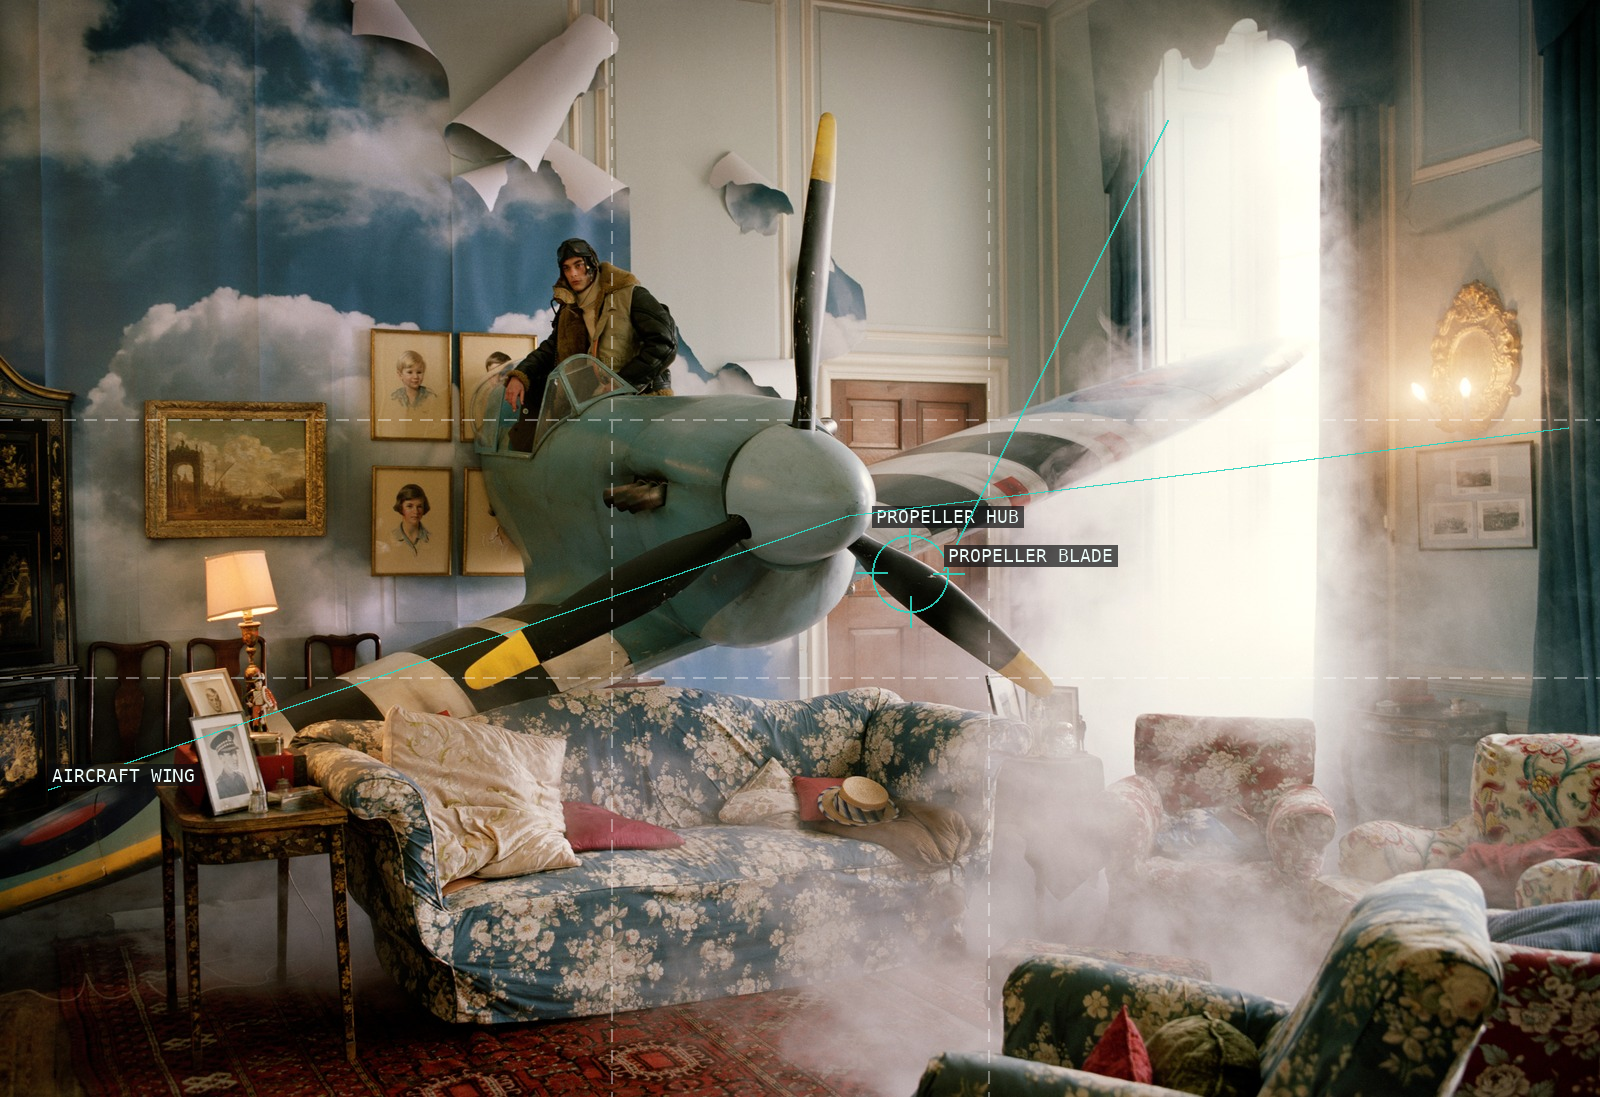
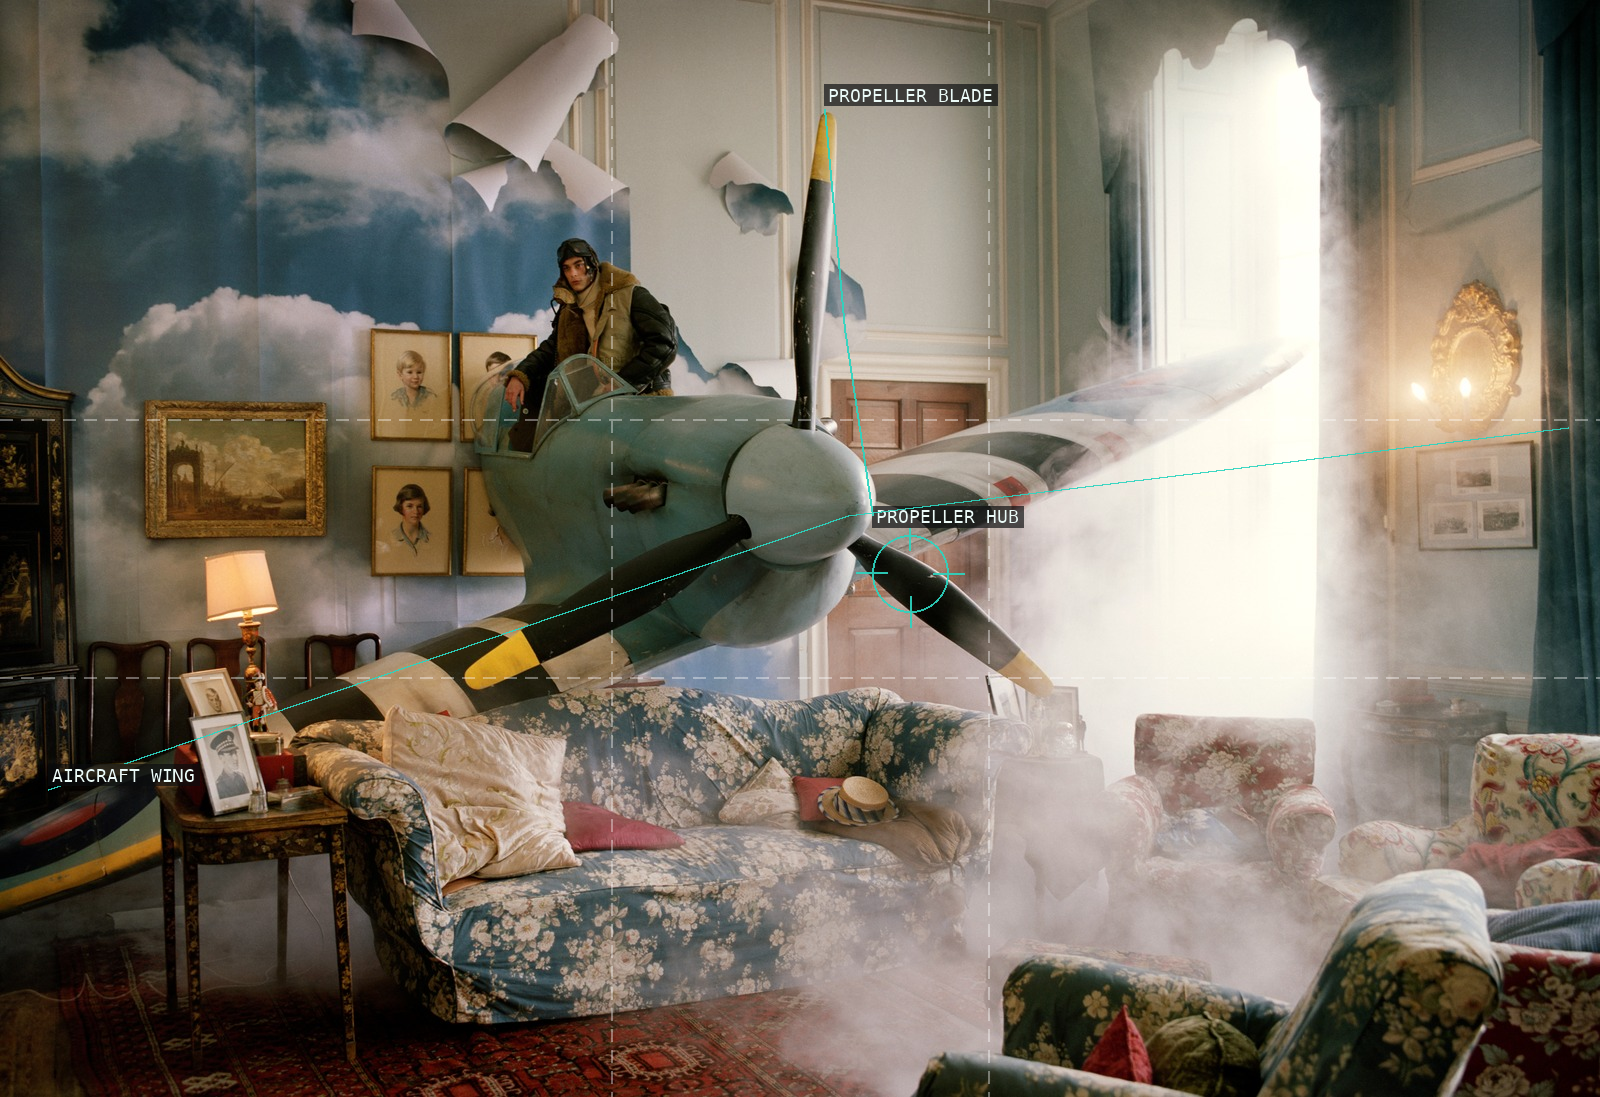
resolve critique: tim-walker

Changed region(s): [[0.5, 0.062, 0.625, 0.124], [0.5938, 0.4959, 0.7188, 0.5269]]

diff --git a/content/tim-walker/sources.md b/content/tim-walker/sources.md
@@ -49,9 +49,9 @@ This set follows Walker's fantasy-fashion practice through twelve complete frame
 - **File:** `raw/tim-walker/07-checking-out.jpg` (2046 × 2500px)
 
 ### 08 — *India, Various Publications* (date not listed)
-- **Why it matters:** Costume and an elaborate dark setting build a painterly hierarchy in which the eye moves through layered surfaces before locating the figure.
+- **Why it matters:** A gold-clad model, rusted car, oversized *VOGUE* letters, and broad tree make a sunlit outdoor stage in which typography and figure continually trade scale.
 - **Source:** https://www.timwalkerphotography.com/ (official portfolio; public display file: https://assets.timwalkerphotography.com/image/timwalker_912.jpg)
-- **Rights / fair-use assessment:** Tim Walker / Tim Walker Photography; *India, Various Publications* (official portfolio metadata supplies no caption or date). **Factor 1:** transformative scholarship examines layered staging and controlled visual revelation. **Factor 2:** a highly creative photograph. **Factor 3:** the whole frame is essential for the surface-to-figure sequence. **Factor 4:** a small credited teaching derivative linked to the portfolio does not replace the editorial image, print, or licence.
+- **Rights / fair-use assessment:** Tim Walker / Tim Walker Photography; *India, Various Publications* (official portfolio metadata supplies no caption or date). **Factor 1:** transformative scholarship examines the relation of oversized typography, car, figure, and tree canopy. **Factor 2:** a highly creative photograph. **Factor 3:** the whole frame is essential to retain the letter-to-figure scale relation and outdoor setting. **Factor 4:** a small credited teaching derivative linked to the portfolio does not replace the editorial image, print, or licence.
 - **File:** `raw/tim-walker/08-deliver-us.jpg` (2011 × 2500px)
 
 ### 09 — *An Artist of the Floating World* (British Vogue, 2016)
@@ -61,9 +61,9 @@ This set follows Walker's fantasy-fashion practice through twelve complete frame
 - **File:** `raw/tim-walker/09-artist-of-the-floating-world.jpg` (3702 × 2500px)
 
 ### 10 — *Morocco, Namibia* (Vogue Italia, 2006; British Vogue, 2011)
-- **Why it matters:** Walker's expansive horizontal arrangement uses costume, vegetation, and group placement to create a decorative rhythm that still reads as a narrative scene.
+- **Why it matters:** A folded printed map turns its white border, horizontal crease, and vertical fold into the frame's primary structure before individual roads can be read.
 - **Source:** https://www.timwalkerphotography.com/ (official portfolio; public display file: https://assets.timwalkerphotography.com/image/timwalker_633.jpg)
-- **Rights / fair-use assessment:** Tim Walker / Tim Walker Photography; *Vogue Italia*, 2006; *British Vogue*, 2011. **Factor 1:** transformative criticism examines lateral rhythm and staged group placement. **Factor 2:** a highly creative fashion photograph. **Factor 3:** the full wide frame is required to retain the group and environmental pattern. **Factor 4:** the web-sized, credited derivative links to the artist's portfolio and cannot replace the magazine originals, print, or licence.
+- **Rights / fair-use assessment:** Tim Walker / Tim Walker Photography; *Vogue Italia*, 2006; *British Vogue*, 2011. **Factor 1:** transformative criticism examines the printed map's folds, border, and internal image rather than treating them as a real landscape. **Factor 2:** a highly creative fashion photograph. **Factor 3:** the full frame is required to retain the paper border and intersecting crease structure. **Factor 4:** the web-sized, credited derivative links to the artist's portfolio and cannot replace the magazine originals, print, or licence.
 - **File:** `raw/tim-walker/10-jamaican-rhapsody.jpg` (1768 × 2500px)
 
 ### 11 — *In the Land of Dreamy Dreams* (British Vogue, 2015)

diff --git a/content/tim-walker/critique.md b/content/tim-walker/critique.md
@@ -1,4 +1,4 @@
-verdict: revise
+verdict: resolved
 
 ## Critique round — 2026-07-24
 
@@ -103,3 +103,25 @@ not re-raised.
 ### Advisory (non-blocking)
 
 - **02-cut-and-paste:** the scorer continues to warn that `FENCE WIRES` is not a detected edge/vanishing path, but the proof visibly places it on the real sloping fence wires. It remains settled and requires no change.
+
+## Resolution — 2026-07-24
+
+Resolved both required items from the latest 2026-07-24 critique round. For
+`06-chocks-away`, a fresh analysis and render pass placed `PROPELLER BLADE`
+directly on the nearly vertical black-and-yellow blade above the hub; the
+rendered proof is visually clean and the deterministic score is 100/100. The
+`08-deliver-us` source note and Factor 1 now describe the sunlit tree, rusted
+car, gold-clad model, and oversized *VOGUE* letters actually shown. The
+`10-jamaican-rhapsody` note and Factor 1 now describe the displayed folded map,
+its border, and its intersecting creases.
+
+Re-verified every required fix from the full critique history. The first
+2026-07-24 round remains resolved for `04` (the line joins the paired faces),
+`08` (the line follows the lower VOGUE-letter baseline), `09` (the line traces
+the left rotor blade), and `11` (the anchor sits on the red-coated figure). The
+second 2026-07-24 round remains resolved for the official source attributions
+and chapter labels of `02`, `03`, `07`, `08`, and `10`, and for `07` (the false
+sofa/rug line remains removed). The latest 2026-07-24 round is resolved as
+described above. Every current overlay passes the deterministic threshold: 02
+scores 94 with its previously accepted detector-only fence-wire warning; the
+other eleven score 100/100. `scripts/check.sh` passed after this resolution.
